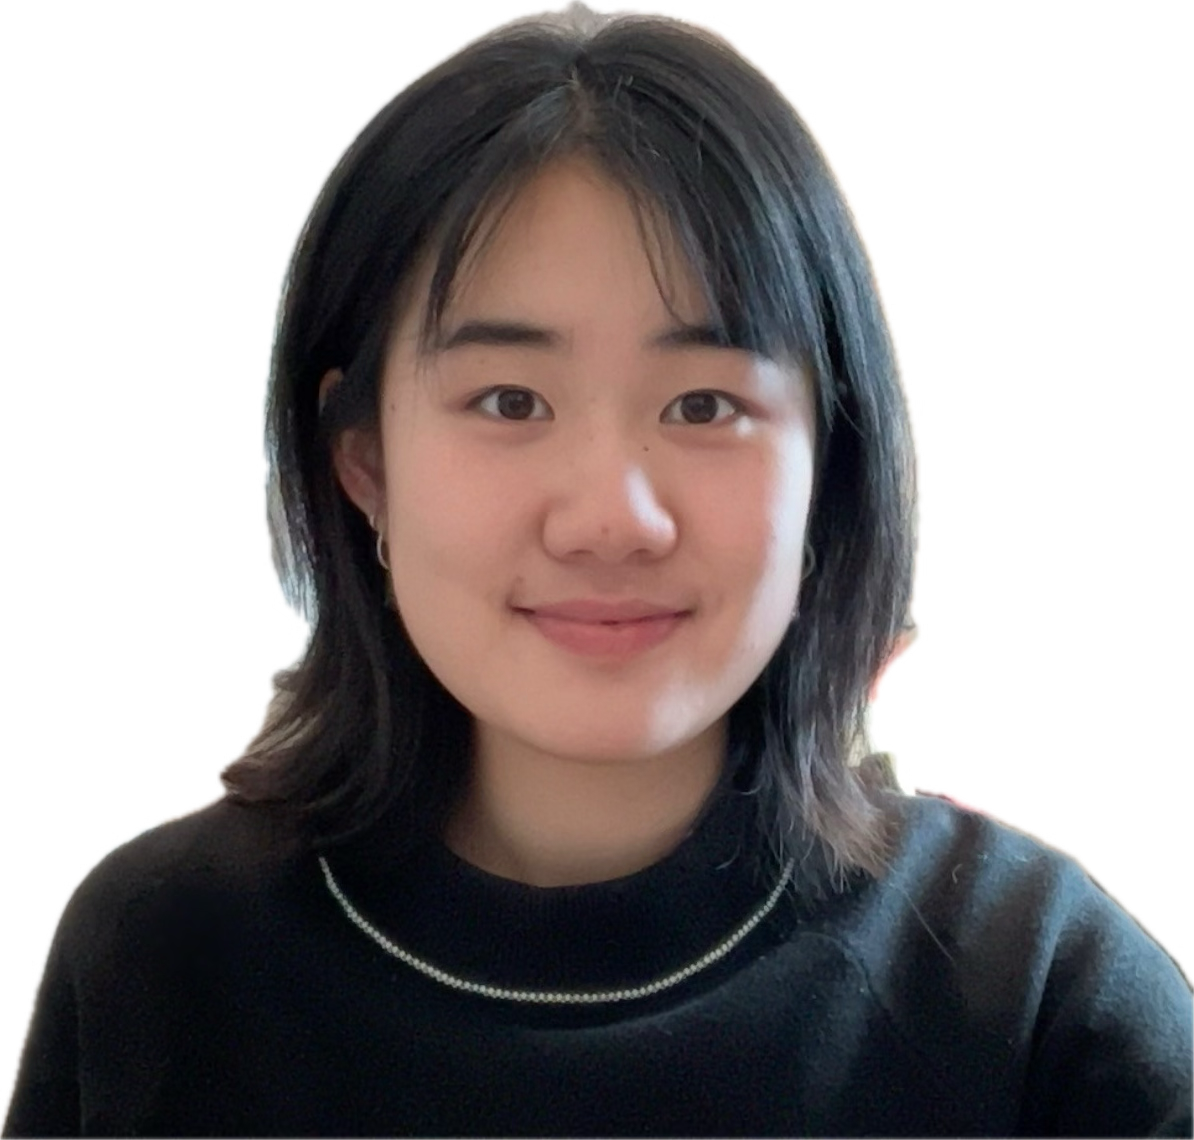
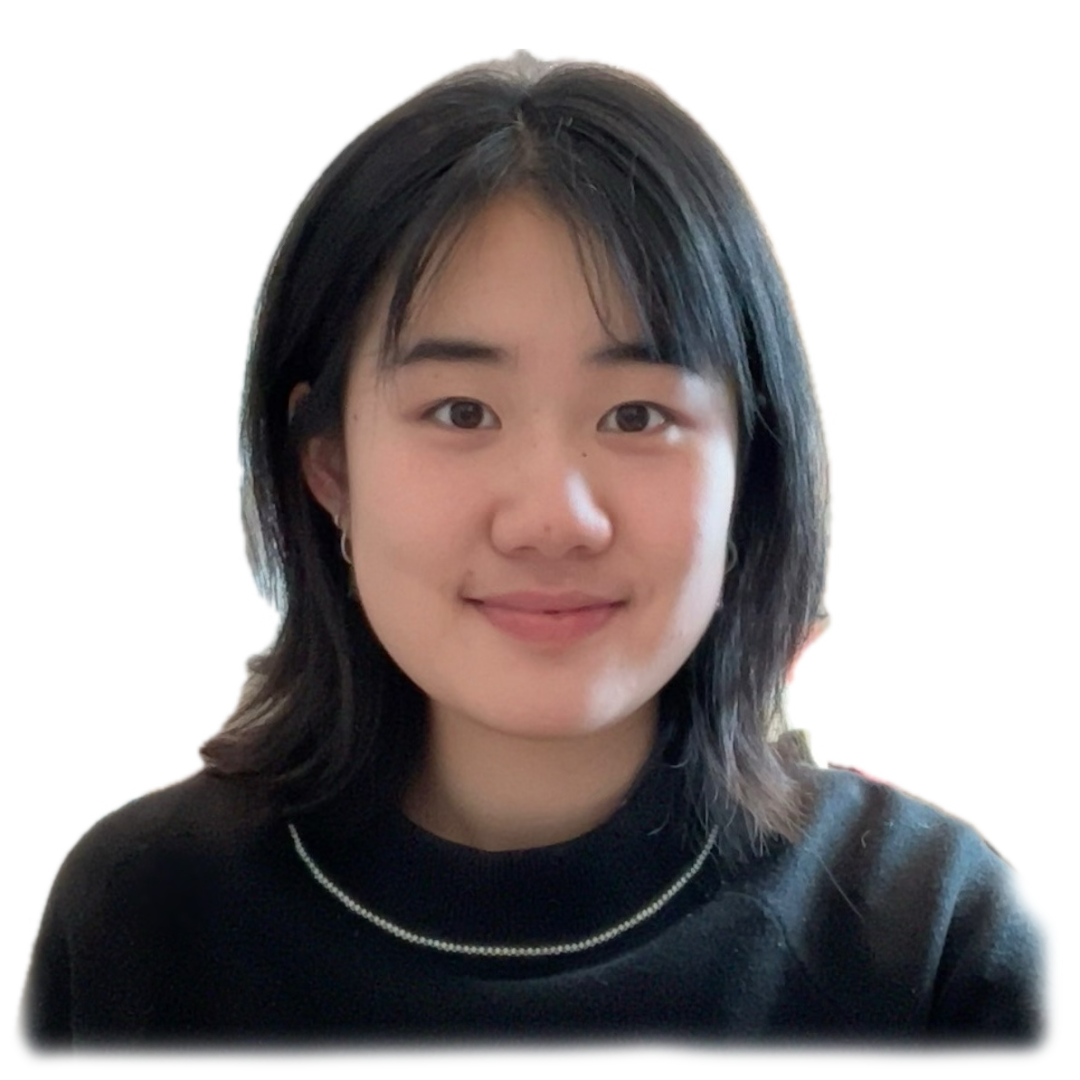
Update intro

Changed region(s): [[0.0, 0.0, 1.0, 1.0], [0.0306, 0.7944, 0.0611, 0.8861], [0.3667, 0.7333, 0.3972, 0.7639]]

diff --git a/src/components/Intro/intro.html b/src/components/Intro/intro.html
@@ -1,0 +1,148 @@
+<style>
+    .img-center {
+      display: block;
+      margin-left: auto;
+      margin-right: auto;
+      width: 50%;
+    }
+    
+    .row {
+      display: flex;
+      flex-wrap: wrap;
+      padding: 7px;
+    }
+    
+    .column {
+      float: none;
+      padding: 20px;
+    }
+    
+    .left {
+      width: 30%;
+    }
+    
+    .right {
+      width: 70%;
+    }
+    
+    @media screen and (max-width: 600px) {
+      .column {
+        flex: 100%;
+      }
+    }
+    
+    /* Clear floats after the columns */
+    .row:after {
+      content: "";
+      display: table;
+      clear: both;
+    }
+    
+    .tab {
+      overflow: hidden;
+      background-color: rgb(20,20,20);
+      border: 2px solid rgb(20,20,20);
+      border-radius: 25px;
+      text-align: center;
+    }
+    
+    /* Style the buttons inside the tab */
+    .tab button {
+      background-color: inherit;
+      float: none;
+      outline: none;
+      cursor: pointer;
+      padding: 10px 25px;
+      transition: 0.3s;
+      font-size: 17px;
+    }
+    
+    /* Change background color of buttons on hover */
+    .tab button:hover {
+      background-color: var(--tertiary);
+    }
+    
+    /* Create an active/current tablink class */
+    .tab button.active {
+      background-color: var(--border);
+    }
+    
+    /* Style the tab content */
+    .tabcontent {
+      display: none;
+      padding: 6px 12px;
+      /* border: 2px solid var(--border); */
+      border-top: 0;
+    }
+</style>
+    
+    <!-- <img class="image-center" width="600" alt="Hey! This is Yuhan~" src="/img/intro/name.svg">
+    &nbsp; -->
+    <div class="row">
+      <div class="column left">
+        <img width="200" alt="personal photo" src="/img/intro/selfie.png">
+        <div class="social-icons">
+          <a href=mailto:ywang70@smith.edu target=_blank rel="noopener noreferrer me" title=Email><svg xmlns="http://www.w3.org/2000/svg" viewBox="0 0 24 21" fill="none" stroke="currentcolor" stroke-width="2" stroke-linecap="round" stroke-linejoin="round"><path d="M4 4h16c1.1.0 2 .9 2 2v12c0 1.1-.9 2-2 2H4c-1.1.0-2-.9-2-2V6c0-1.1.9-2 2-2z"/><polyline points="22,6 12,13 2,6"/></svg></a>
+          <a href=https://www.linkedin.com/in/yuhan-wang-yw/ target=_blank rel="noopener noreferrer me" title=Linkedin><svg xmlns="http://www.w3.org/2000/svg" viewBox="0 0 24 24" fill="none" stroke="currentcolor" stroke-width="2" stroke-linecap="round" stroke-linejoin="round"><path d="M16 8a6 6 0 016 6v7h-4v-7a2 2 0 00-2-2 2 2 0 00-2 2v7h-4v-7a6 6 0 016-6z"/><rect x="2" y="9" width="4" height="12"/><circle cx="4" cy="4" r="2"/></svg></a>
+          <a href=https://github.com/yuhanwww target=_blank rel="noopener noreferrer me" title=Github><svg xmlns="http://www.w3.org/2000/svg" viewBox="0 0 24 24" fill="none" stroke="currentcolor" stroke-width="2" stroke-linecap="round" stroke-linejoin="round"><path d="M9 19c-5 1.5-5-2.5-7-3m14 6v-3.87a3.37 3.37.0 00-.94-2.61c3.14-.35 6.44-1.54 6.44-7A5.44 5.44.0 0020 4.77 5.07 5.07.0 0019.91 1S18.73.65 16 2.48a13.38 13.38.0 00-7 0C6.27.65 5.09 1 5.09 1A5.07 5.07.0 005 4.77 5.44 5.44.0 003.5 8.55c0 5.42 3.3 6.61 6.44 7A3.37 3.37.0 009 18.13V22"/></svg></a>
+          <a href="/pdf/Curriculum_Vitae_Yuhan_Wang.pdf" target=_blank rel="noopener noreferrer me" title=Cv><svg xmlns="http://www.w3.org/2000/svg" viewBox="0 0 24 24" fill="none" stroke="currentcolor" stroke-width="2" stroke-linecap="round" stroke-linejoin="round"><path d="M4 4v16a2 2 0 002 2h12a2 2 0 002-2V8.342a2 2 0 00-.602-1.43l-4.44-4.342A2 2 0 0013.56 2H6A2 2 0 004 4z"></path><path d="M9 13h6"></path><path d="M9 17h3"></path><path d="M14 2v4a2 2 0 002 2h4"></path></svg></a>
+        </div>
+      </div>
+      <div class="column right">
+        <div class="tab">
+          <button class="tablinks" onclick="openCity(event, 'Intro')" id="defaultOpen">Intro</button>
+          <button class="tablinks" onclick="openCity(event, 'Academic')">Academic</button>
+          <button class="tablinks" onclick="openCity(event, 'Funsies')">Funsies</button>
+        </div>
+        
+        <div id="Intro" class="tabcontent">
+          <p style="padding: 20px;">
+            I am a junior at Smith College, double majoring in Art History & Computer Science.
+            <br/><br/>
+            I love to explore the intersection between art and technology-- generally fields that involve visual elements, creativity, and human aspects, like digital art, interface design, and virtual exhibitions.
+            <br/>
+            <a style="font-style: italic;">*Fun fact: I can't stop when start creating something digital, like making this web page.</a>
+            <br/><br/>
+            I enjoy solving design challenges and reflecting through the process to gain insights! Currently, I work as a studio design partner at the Smith College <a href="/posts/dti/" style="color:var(--text-em)">Design Thinking Initiative</a>, and am also a research assistant at the Prof. Christophe Golé's <a href="/projects/phoyllotaxis/" style="color: var(--text-em);">Phyllotaxis Plant Lab</a>.
+          </p> 
+        </div>
+        
+        <div id="Academic" class="tabcontent">
+          <p style="padding: 20px;">
+            My main focus is Human Computer Interaction, Software Engineering, and Machine Learning.
+            <br/><br/>
+            Majoring in both art history and computer science allows me to develop interdisciplinary problem solving skills, to integrate information, methods of inquiry, research skills, and experiential learning. I have a huge passion for visual elements, which is closely connected to my enthusiasm in interface design and digital humanity.
+            <br/><br/>
+            In the next 10 years, I see myself pursuing a higher degree and working in a field that explores the design and use of technology. 
+          </p> 
+        </div>
+        
+        <div id="Funsies" class="tabcontent">
+          <p style="padding: 20px;">
+            I love design and creation (both physical and digital). For physical creations, thanks to my working at DTI, I learned to do crochet, sewing, woodwork, and operate machines like laser cutter, vinyl cutter, and 3d printer. For digital creations,  You can have a peek at the things that I made at <a href="/gallery/" style="color: var(--text-em);">Gallery</a> Page, or see more at my creations <a href="https://www.instagram.com/yaaaarth/" style="color: var(--text-em);">Instagram</a>!
+            <br/><br/>
+            In my free time, I am also an artistic swimming performer and street dance enthusiast :))
+            <br/> <br/> 
+            <a href="/posts/plots/" style="color:var(--text-em)">Link to interesting visual things (☆∀☆)</a>
+            <br/> 
+          </p>
+        </div> 
+      </div>
+    </div>
+    
+    <script>
+    function openCity(evt, cityName) {
+      var i, tabcontent, tablinks;
+      tabcontent = document.getElementsByClassName("tabcontent");
+      for (i = 0; i < tabcontent.length; i++) {
+        tabcontent[i].style.display = "none";
+      }
+      tablinks = document.getElementsByClassName("tablinks");
+      for (i = 0; i < tablinks.length; i++) {
+        tablinks[i].className = tablinks[i].className.replace(" active", "");
+      }
+      document.getElementById(cityName).style.display = "block";
+      evt.currentTarget.className += " active";
+    }
+    document.getElementById("defaultOpen").click();
+    </script>

diff --git a/src/components/Intro/intro.js b/src/components/Intro/intro.js
@@ -1,20 +1,40 @@
-import React from 'react';
+import React, { useState } from "react"; 
+import { Link } from 'react-scroll'; 
 import './intro.css';
-import profileImg from '../../assets/profile.png';
-// import { Tab, Tabs, TabList, TabPanel } from 'react-tabs';
-// import 'react-tabs/style/react-tabs.css';
-// import { Link } from 'react-scroll'; 
 
+import Tabs from '../../components/Tabs/tabs'
+
+import profileImg from '../../assets/profile.png';
+import emailIcon from '../../assets/icons/emailIcon.svg';
+import linkedinIcon from '../../assets/icons/linkedinIcon.svg';
+import githubIcon from '../../assets/icons/githubIcon.svg';
+import cvIcon from '../../assets/icons/cvIcon.svg';
 
 const Intro = () => {
+  const [value, setValue] = useState('1');
+
+  const handleChange = (event, newValue) => {
+    setValue(newValue);
+  };
+
   return (
     <section id="intro">
       <div className="introContent">
-        <span className="hi">Hi<br/></span>
-        <span className="introText">I'm <span className="introName">Yuhan Wang</span></span>
-        <p className="introPara">junior at Smith College,<br/> majoring Art History & Computer Science.</p>
+        <div className="column left">
+          <img src={profileImg} alt="profile" className='introImg'/>
+          <div className="socialIcons">
+            <Link type='email' onClick={() => { window.location.href = 'ywang70@smith.edu'; } }><img src={emailIcon} alt='email' className="socialIcon" /></Link>
+            <Link type='linkedin' onClick={() => window.open('https://www.linkedin.com/in/yuhan-wang-yw/', '_blank', 'noopener,noreferrer')}><img src={linkedinIcon} alt='LinkedIn'className="socialIcon" /></Link>
+            <Link type='github' onClick={() => window.open('https://github.com/yuhanwww', '_blank', 'noopener,noreferrer')}><img src={githubIcon} alt='Github' className="socialIcon" /></Link>
+            <Link type='resume'><img src={cvIcon} alt='CV' className="socialIcon" /></Link>
+          </div>
+        </div>
+        <div className='column right'>
+          <Tabs />
+        </div>
+
+        
       </div>
-      <img src={profileImg} alt="profile" className='bg'/>
     </section>
   )
 }

diff --git a/src/components/Intro/intro.css b/src/components/Intro/intro.css
@@ -19,47 +19,44 @@
 .introContent{
     height: 70vh;
     width: 100vw;
-    padding: 2rem;
-    font-size: 3rem;
+    padding: 7px;
+
     /* font-weight: 700; */
     display: flex;
-    flex-direction: column;
+    /* flex-direction: column; */
     justify-content: center;
+    flex-wrap: wrap;
 }
 
-.hi{
-    font-size: 1.75rem;
-    font-weight: 100;
-}
- 
-.introName{
-    color: rgb(2, 64, 49);
+.introImg {
+    height: 200px;
 }
 
-.introPara{
-    padding-top: 7px;
-    font-size: medium;
-    font-weight: 300;
-    letter-spacing: 1px;
+.column {
+    float: none;
+    padding: 20px;
 }
 
-.btn{
-    background: white;
-    margin: 1rem 0;
-    padding: 0.75rem 1.5rem;
-    border: none;
-    border-radius: 2rem;
+.left {
+    width: 30%;
 }
 
-.btnImg{
-    object-fit: cover;
-    margin: 0 0.25rem;
-    height: 1rem;
-
+.right {
+    width: 70%;
 }
 
-@media screen and (max-width:480px){
-    .bg{
-        right: -20vw;
+.socialIcons {
+    padding: 12px 0;
+}
+
+.socialIcon {
+    height: 50px;
+    width: 50px;
+    padding: 0 12px;
+}
+
+@media screen and (max-width: 600px) {
+    .column {
+        flex: 100%;
     }
 }

diff --git a/src/components/Tabs/tabs.js b/src/components/Tabs/tabs.js
@@ -1,0 +1,32 @@
+import React, { useState } from 'react';
+
+const Tabs = () => {
+
+    const tabs = ['Intro','Academic','Other'];
+    const [activeTab, setActiveTab] = useState(tabs[0]);
+
+    const handleTabClick = (tab) => {
+        setActiveTab(tab);
+    };
+
+    return (
+        <div>
+            <ul className="tab">
+            {tabs.map((tab, index) => (
+                <li
+                    key={index}
+                    className={`tab-item ${activeTab === tab ? 'active' : ''}`}
+                    onClick={() => handleTabClick(tab)}
+                >
+                    {tab}
+                </li>
+            ))}
+            </ul>
+            <div className="tabcontent">
+                <p>{`This is the content for ${activeTab}.`}</p>
+            </div>
+        </div>
+    )
+}
+
+export default Tabs;

diff --git a/src/components/Tabs/tabs.css b/src/components/Tabs/tabs.css
@@ -1,0 +1,37 @@
+
+.tab {
+    overflow: hidden;
+    background-color: var(--theme);
+    border: 2px solid var(--border);
+    border-radius: 25px;
+    text-align: center;
+}
+  
+/* Style the buttons inside the tab */
+.tab button {
+    background-color: inherit;
+    float: none;
+    outline: none;
+    cursor: pointer;
+    padding: 10px 25px;
+    transition: 0.3s;
+    font-size: 17px;
+}
+  
+/* Change background color of buttons on hover */
+.tab button:hover {
+    background-color: var(--tertiary);
+}
+  
+/* Create an active/current tablink class */
+.tab button.active {
+    background-color: var(--border);
+}
+
+/* Style the tab content */
+.tabcontent {
+    display: none;
+    padding: 6px 12px;
+    /* border: 2px solid var(--border); */
+    border-top: 0;
+}

diff --git a/src/components/NavBar/navbar.css b/src/components/NavBar/navbar.css
@@ -1,15 +1,15 @@
 .navbar{
     height: 5rem;
     width: 100vw;
-    max-width: 75rem;
     margin: 0 auto;
-    padding: 1rem 2rem;
+    padding: 1rem 5rem;
     display: flex;
     align-items: center;
     justify-content: space-between; 
     position: sticky;
     top: 0;
     z-index: 3;
+    background: rgba(90, 133, 144, 0.245);
 }
 
 .logo{

diff --git a/public/style.css b/public/style.css
@@ -8,7 +8,7 @@
 }
 
 body {
-    background: rgb(189, 208, 210);
+    background: rgb(169,192,195);
     color: black;
     overflow: hidden;
     overflow-y: scroll;
